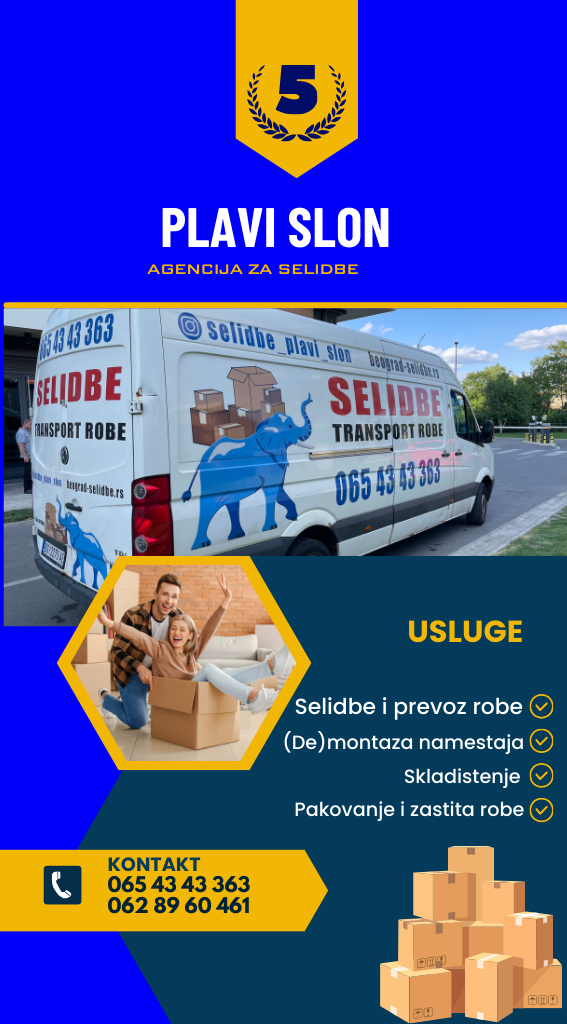
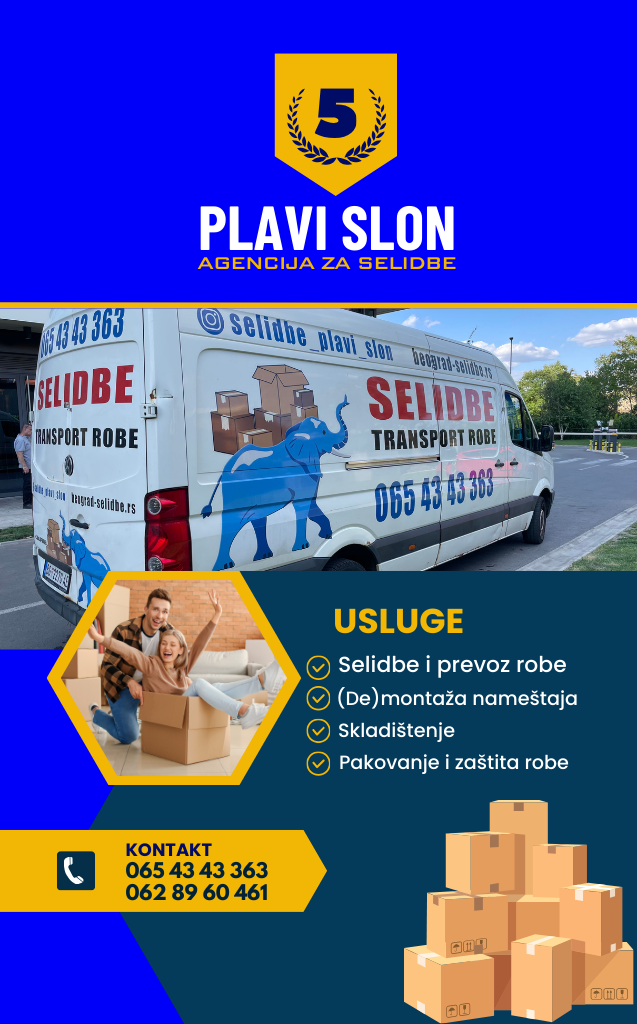
change

diff --git a/JS/img.js b/JS/img.js
@@ -21,7 +21,7 @@ function setMainImg () {
     mainImg.style.aspectRatio='1/1.3'
   }
   else {
-    mainImg.src='images/imgDesktop.png'
+    mainImg.src='images/imgDesktop2.png'
     mainImg.style.aspectRatio='2.7/1'
   
   }
